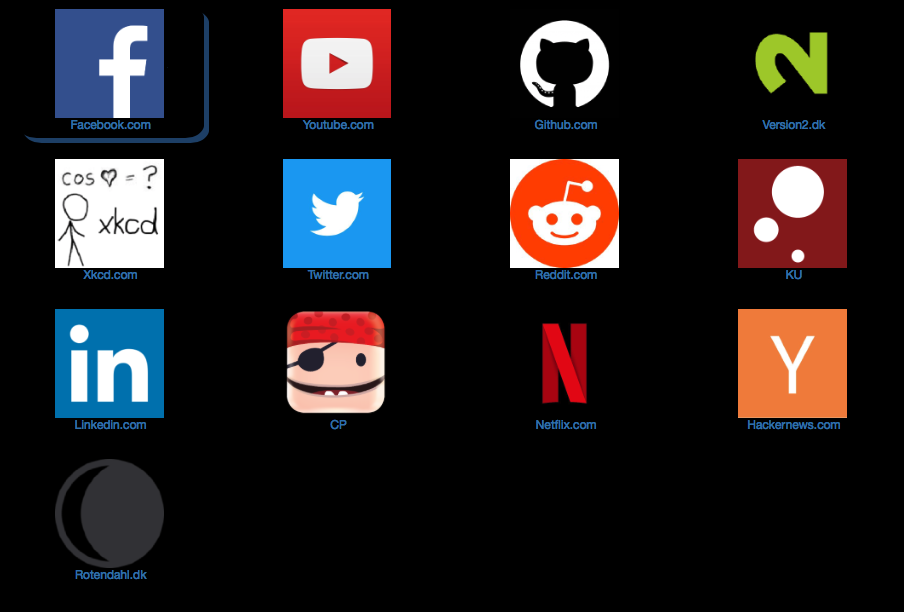
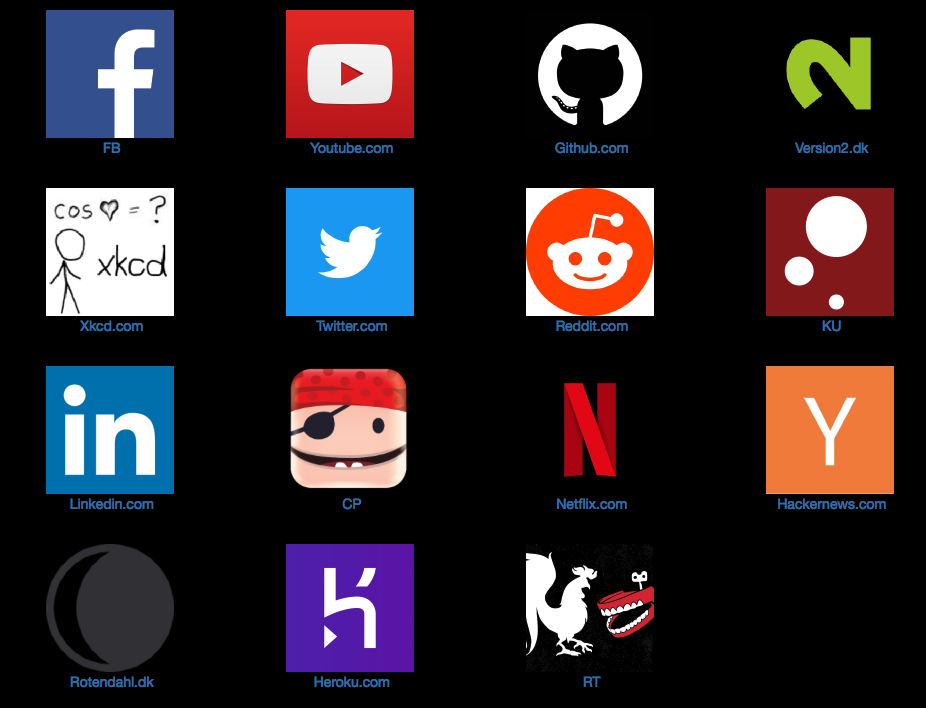
Updated readme and links

diff --git a/start.html b/start.html
@@ -39,7 +39,7 @@
                     <img src="https://logo.clearbit.com/Facebook.com">
                   
                   <br>
-                  Facebook.com
+                  FB
                 </a>
               </div>
           </div>
@@ -184,6 +184,30 @@
                   
                   <br>
                   Rotendahl.dk
+                </a>
+              </div>
+          </div>
+          
+            <div class="col-xs-3 col-lg-2">
+              <div class="logo">
+                <a href="http://Heroku.com">
+                  
+                    <img src="https://logo.clearbit.com/Heroku.com">
+                  
+                  <br>
+                  Heroku.com
+                </a>
+              </div>
+          </div>
+          
+            <div class="col-xs-3 col-lg-2">
+              <div class="logo">
+                <a href="http://http://roosterteeth.com/">
+                  
+                    <img src="https://logo.clearbit.com/http://roosterteeth.com/">
+                  
+                  <br>
+                  RT
                 </a>
               </div>
           </div>

diff --git a/README.md b/README.md
@@ -1,0 +1,28 @@
+# Start page Generator
+![screenshot.png](screenshot.png)
+
+A small utility to generate responsive start pages for you phone, laptop, etc.
+Most browsers offers a grid that shows you the pages you visit the most.
+
+It's a useful feature but it has some problems.
+
+* It does not sync between devices
+* If you use different browsers at home and at work they look different.
+* Hard to manage and get the right name and logo.
+
+The utility is made in python 3, it uses the [jinja](http://jinja.pocoo.org)
+template language, which can be installed with `pip3 install jinja`.
+
+The links are specified in `links.txt` and has the following syntax.
+`* Name -> url <- Logo`
+
+The name and logo are optional, and are meant for sites where you want a shorter
+name or a different logo. The logos are taken from
+[clearbit.com/logo](https://clearbit.com/logo) if they don't have the logo it can be
+manually specified. See the links file for examples
+
+Once the links have bin specified you run `python generator.py` which produces
+a file called `start.html` that contains your start page.
+
+If you want a different color scheme change the CSS in template.html and run
+the generator again.
